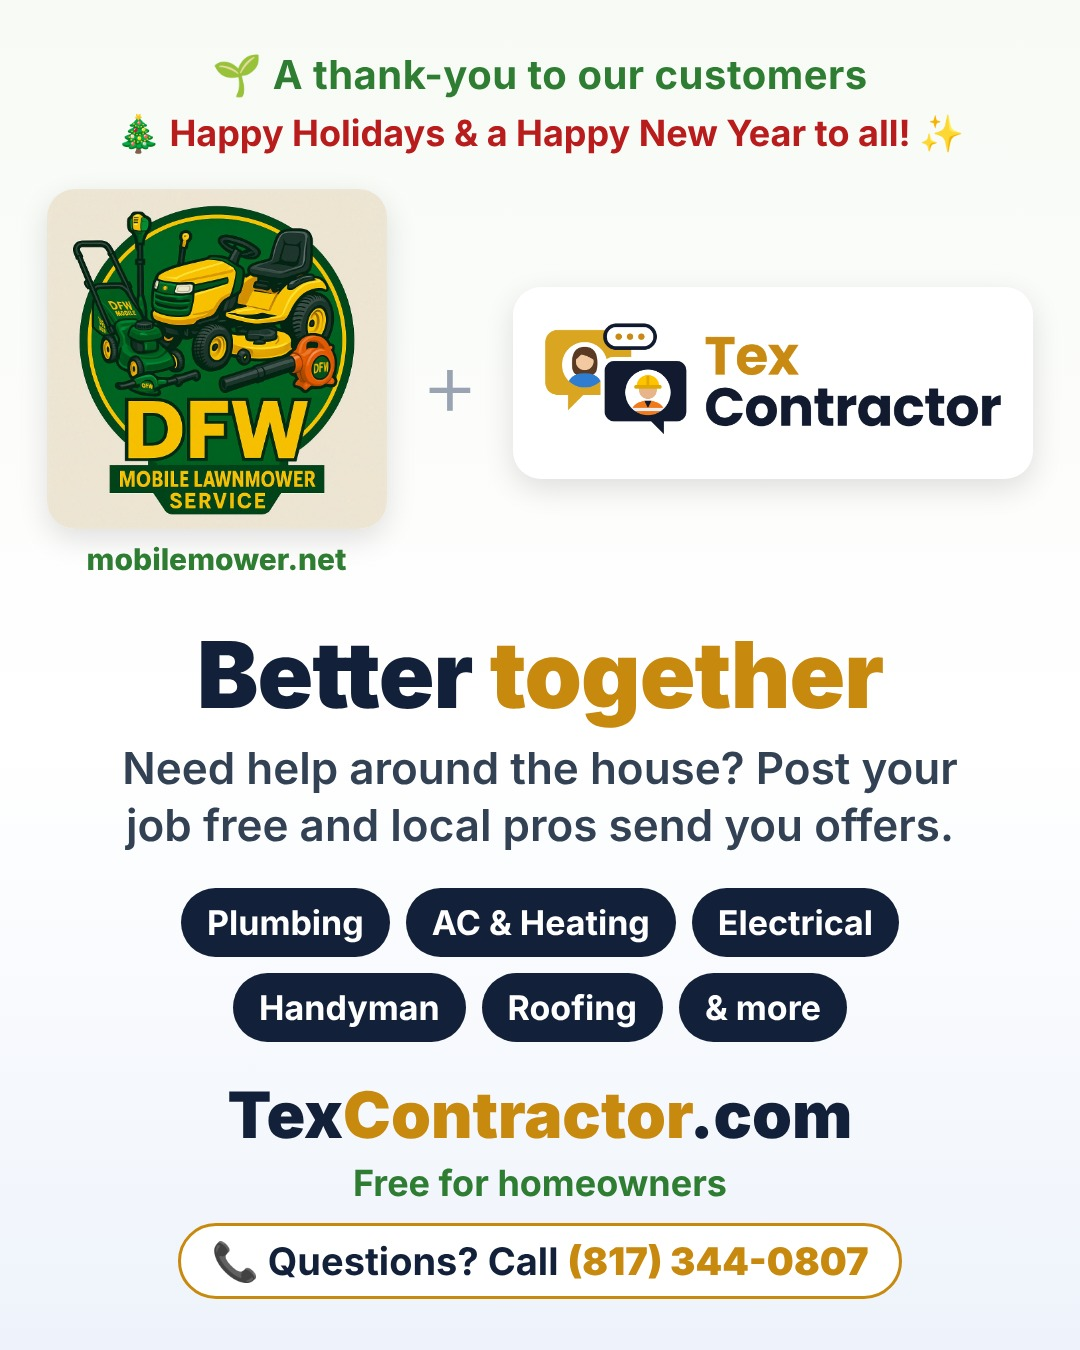
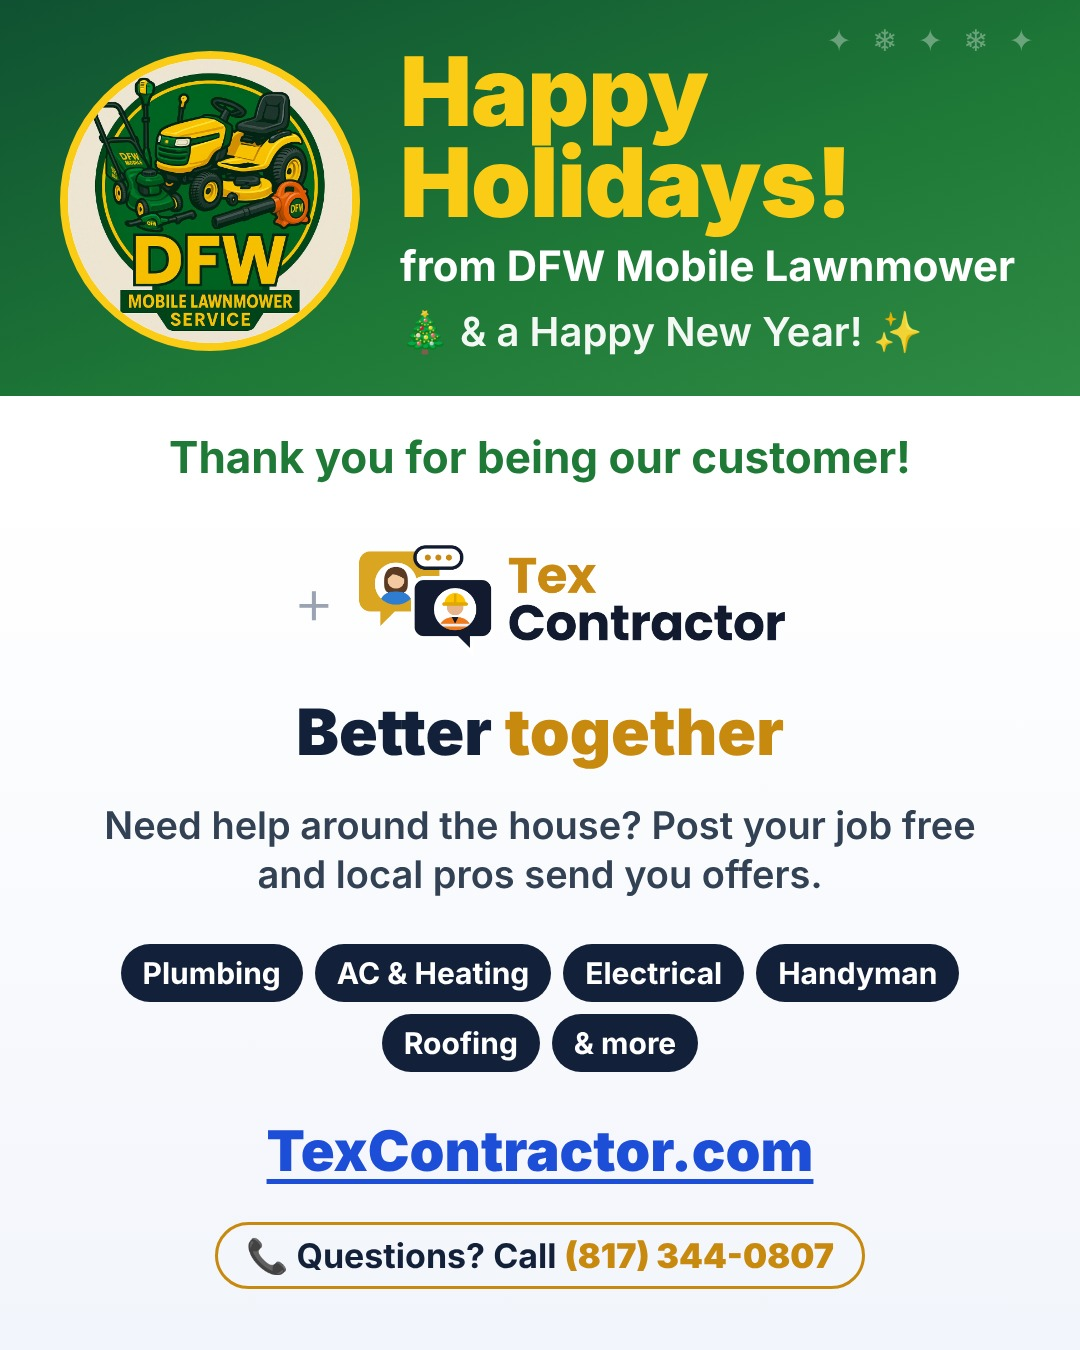
Send page: new holiday card (greeting from DFW on top), message = link only
Claude-Session: https://claude.ai/code/session_01DnC9s8wq55vgEgpRmFJC3m

diff --git a/send/index.html b/send/index.html
@@ -32,9 +32,8 @@ li .act{display:flex;gap:6px}
 
 <div class="box">
   <label for="msg">2) Message</label>
-  <textarea id="msg">Happy Holidays from DFW Mobile Lawnmower! 🌱
-https://texcontractor.com/?utm_source=dfw_holiday</textarea>
-  <img class="card" id="pic" src="/send/card.jpg" alt="Card">
+  <textarea id="msg">https://texcontractor.com/?utm_source=dfw_holiday</textarea>
+  <img class="card" id="pic" src="/send/card.jpg?v=2" alt="Card">
   <label for="picFile" style="margin-top:6px">Change picture (optional)</label><input type="file" id="picFile" accept="image/*">
   <div class="row"><button class="ghost" id="copyImg">📋 Copy picture</button><span class="small" id="imgNote">Copy, then paste it in the message.</span></div>
 </div>
@@ -61,12 +60,12 @@ https://texcontractor.com/?utm_source=dfw_holiday</textarea>
 <div class="small"><button class="ghost" id="reset">Clear this phone</button></div>
 
 <script>
-var K='tc_send_v1',S={list:[],sent:{},stop:{},page:0};
+var K='tc_send_v1',MK='tc_send_msg_v2',S={list:[],sent:{},stop:{},page:0};
 try{var s=JSON.parse(localStorage.getItem(K));if(s&&s.list)S=s}catch(e){}
 function save(){try{localStorage.setItem(K,JSON.stringify(S))}catch(e){}}
 var $=function(i){return document.getElementById(i)};
-function msgVal(){try{var m=localStorage.getItem(K+'_m');if(m!==null)$('msg').value=m}catch(e){}}
-msgVal();$('msg').oninput=function(){try{localStorage.setItem(K+'_m',this.value)}catch(e){}render()};
+function msgVal(){try{var m=localStorage.getItem(MK);if(m!==null)$('msg').value=m}catch(e){}}
+msgVal();$('msg').oninput=function(){try{localStorage.setItem(MK,this.value)}catch(e){}render()};
 function href(p){return 'sms:+1'+p+'&body='+encodeURIComponent($('msg').value)}
 function fmt(p){return '('+p.slice(0,3)+') '+p.slice(3,6)+'-'+p.slice(6)}
 function render(){
